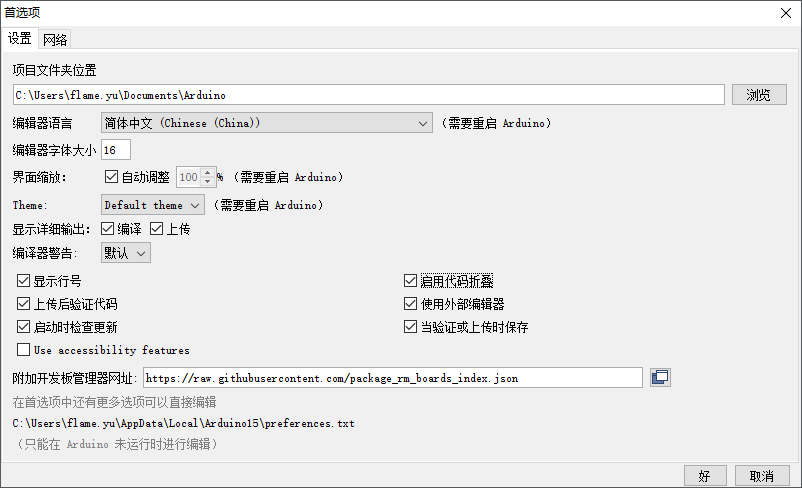
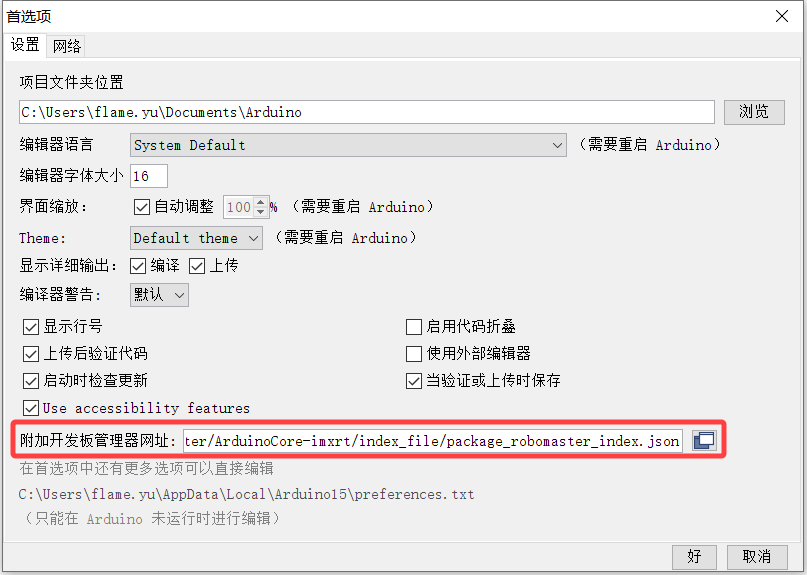
FIX: Update document

Changed region(s): [[0.0, 0.0, 1.0, 1.0], [0.4988, 0.5533, 0.717, 0.6762], [0.0, 0.0, 0.1247, 0.0922]]

diff --git a/docs/source/arduino/arduino-1.md b/docs/source/arduino/arduino-1.md
@@ -20,7 +20,7 @@
 
 ![arduino0001](arduino-1.assets/arduino0001.PNG)
 
-在 `附加开发板管理器网址`（*Additional Boards Managers URLs*）选项框中添加以下字段：
+在 `附加开发板管理器网址`（*Additional Boards Managers URLs*）选项框中添加开发板索引：
 
 ```
 https://raw.githubusercontent.com/RoboMaster/ArduinoCore-imxrt/index_file/package_robomaster_index.json
@@ -30,15 +30,15 @@ https://raw.githubusercontent.com/RoboMaster/ArduinoCore-imxrt/index_file/packag
 
 ![arduino0002](arduino-1.assets/arduino0002.PNG)
 
-打开开发板管理器后，等待索引更新完成，向下拉找到`Robomaster Education Module`栏目，单击`安装（Install）`，等待安装完成后，关闭开发板管理器。
+打开开发板管理器后，等待索引更新完成（如失败，请检查您与Github之间的网络是否通畅），向下拉找到`Robomaster Education Boards`栏目，单击`安装（Install）`，等待安装完成，关闭开发板管理器。
 
 ![arduino0003](arduino-1.assets/arduino0003.PNG)
 
-再次打开`工具（tools）`->`开发板（Board）`，可以看到刚刚安装好的开发板`RoboMaster Education Series Boards`，选择所需的开发板`RM Expansion Module(RMEM01)`。
+再次打开`工具（tools）`->`开发板（Board）`，可以看到刚刚安装好的开发板`RoboMaster Education Boards`，选择所需的开发板，例如`RM Expansion Module(RMEM01)`。
 
 ![arduino0004](arduino-1.assets/arduino0004.PNG)
 
-至此，您已成功安装开发板支持！
+至此，您已成功安装开发板支持包！
 
 ## 1.3 创建第一个草图
 

diff --git a/docs/source/arduino/arduino-3.md b/docs/source/arduino/arduino-3.md
@@ -16,7 +16,7 @@
 
 ```{admonition} 小提示
 :class: tip
-如您需要使用自己的Arduino开发板与AI模块通信，请见官网手册《AI 模块与第三方开发板通信开发指南》。
+如您需要使用自己的Arduino开发板与AI模块通信，请见官网手册《AI 模块与第三方开发板通信开发指南》（[官方资料下载页面](https://www.dji.com/cn/ai-module/downloads)）。
 ```
 
 在使用`RMAI_Results`库之前，请确保:
@@ -145,8 +145,9 @@ typedef struct tag {
 
 AI模块通过串口输出的识别结果帧格式为：
 
-| ID   | 中心坐标 X | 中心坐标 Y | 宽 W | 高 H | 置信度 |
+|    |  |  |  |  |  |
 | ---- | ---------- | ---------- | ---- | ---- | ------ |
+| ID   | 中心坐标 X | 中心坐标 Y | 宽 W | 高 H | 置信度 C |
 
 各个字段的含义如下：
 

diff --git a/docs/source/intro.md b/docs/source/intro.md
@@ -12,9 +12,10 @@
 
 ### 手册
 
-- [用户手册](https://dl.djicdn.com/downloads/DJI_AI_Module/RM_Expansion_Module_Quick_Start_Guide.pdf)
+- [快速入门指南](https://dl.djicdn.com/downloads/DJI_AI_Module/RM_Expansion_Module_Quick_Start_Guide.pdf)
 
-- [快速入门指南](https://dl.djicdn.com/downloads/DJI_AI_Module/RM_Expansion_Module_User_Manual_v1.0_cn.pdf)
+
+- [用户手册](https://dl.djicdn.com/downloads/DJI_AI_Module/RM_Expansion_Module_User_Manual_v1.0_cn.pdf)
 
 
 
@@ -22,3 +23,6 @@
 
 - [资料下载页面](https://www.dji.com/cn/ai-module/downloads)
 
+### Arduino支持
+
+- [https://github.com/RoboMaster/ArduinoCore-imxrt](https://github.com/RoboMaster/ArduinoCore-imxrt)
